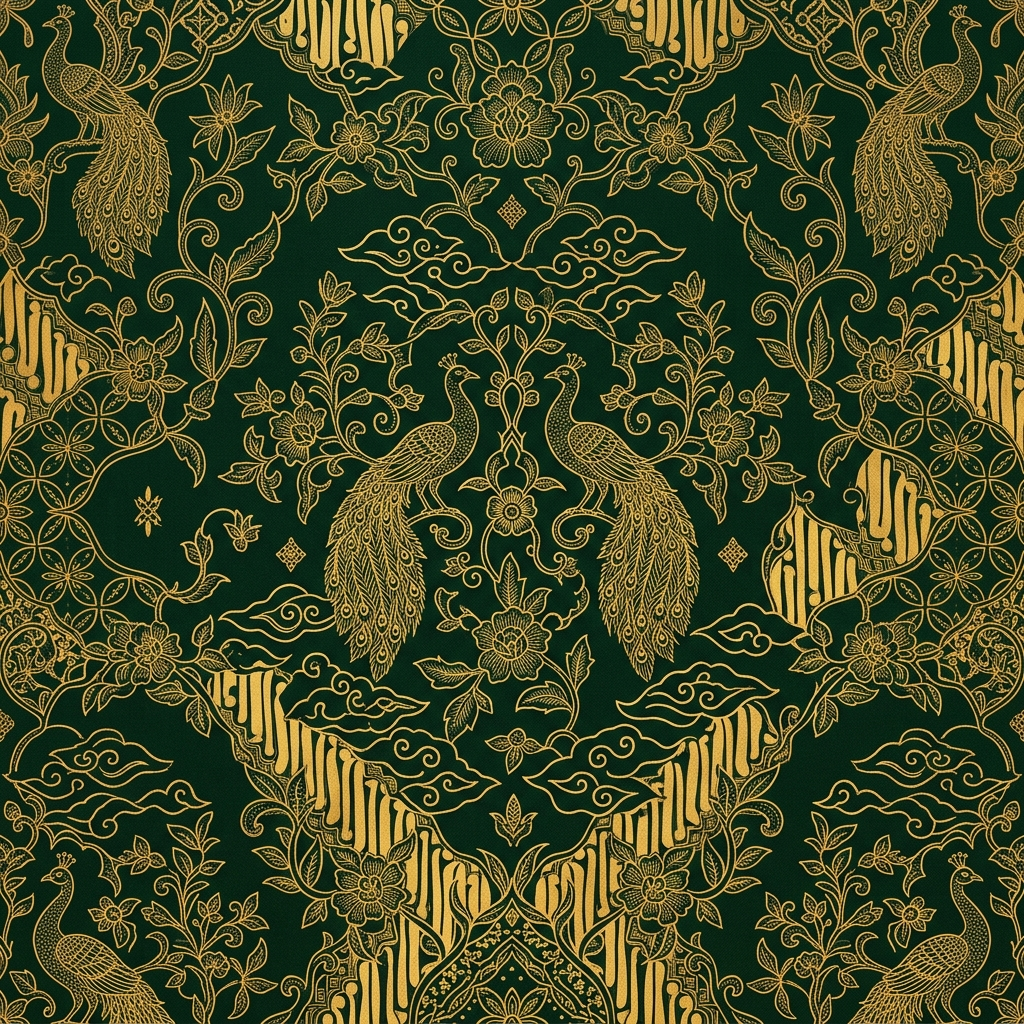
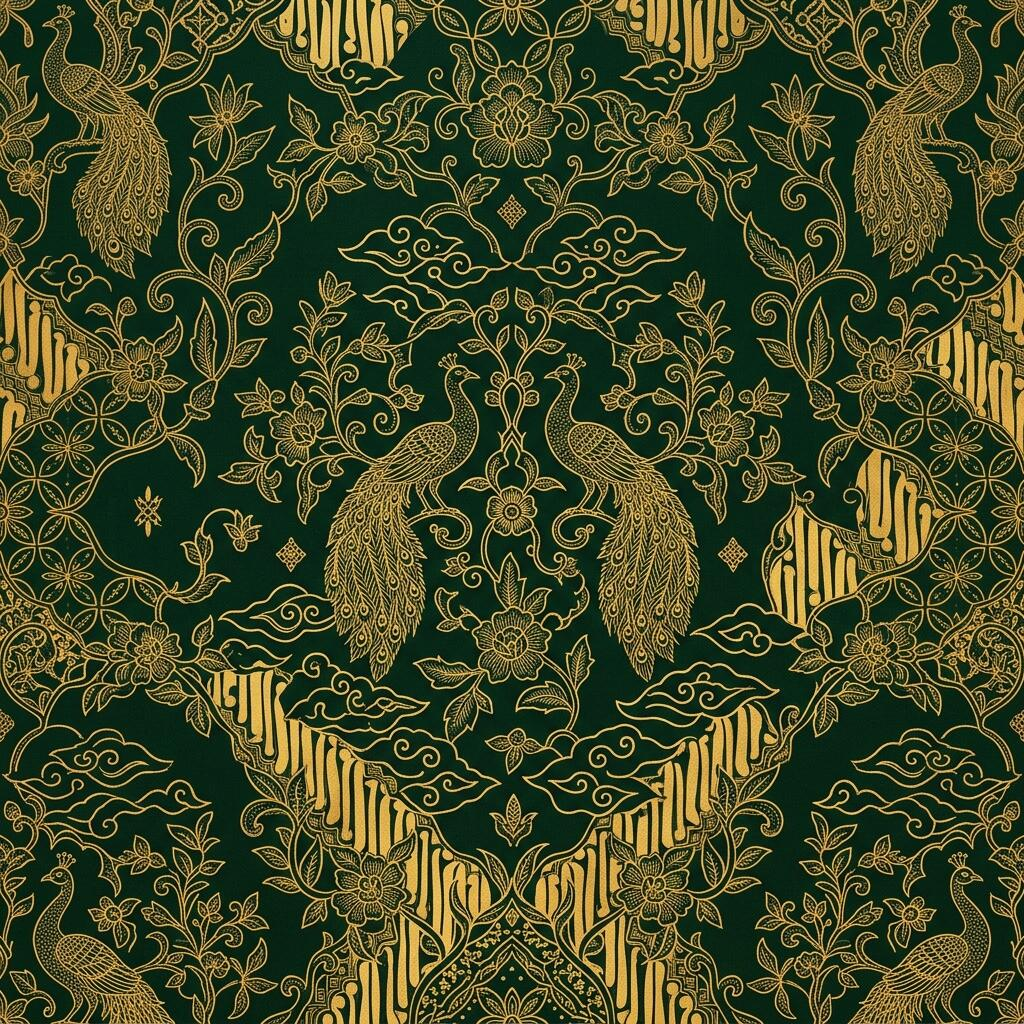
perf: optimize webp background, add main landmark, parallel fonts, and complete SEO meta

diff --git a/src/components/ProductionLanding.jsx b/src/components/ProductionLanding.jsx
@@ -1,15 +1,24 @@
 import React, { useEffect } from 'react';
 import { Sparkles, MessageCircle, ShieldCheck, HeartHandshake, Music } from 'lucide-react';
-import { setRobotsNoIndex } from '../utils/seo';
 
 const ProductionLanding = () => {
-  useEffect(() => {
-    // Pastikan halaman landing produksi tidak diindeks mesin pencari
-    setRobotsNoIndex();
-    document.title = 'Undangan Pernikahan Tradisional Digital';
-  }, []);
+  const brandName = import.meta.env?.VITE_BRAND_NAME || 'Kalyana Undangan Adat';
+  const whatsappNumber = import.meta.env?.VITE_WHATSAPP_NUMBER || '6281234567890';
+  const brandDesc = 'Platform undangan pernikahan digital bernuansa adat tradisional Nusantara yang sakral, elegan, dan berkelas bagi hari bahagia Anda.';
 
-  const whatsappUrl = 'https://wa.me/6281234567890?text=Halo%2C%20saya%20ingin%20berkonsultasi%20mengenai%20pembuatan%20undangan%20pernikahan%20digital%20adat.';
+  useEffect(() => {
+    document.title = `${brandName} - Layanan Undangan Pernikahan Adat Digital`;
+
+    let metaDesc = document.querySelector('meta[name="description"]');
+    if (!metaDesc) {
+      metaDesc = document.createElement('meta');
+      metaDesc.setAttribute('name', 'description');
+      document.head.appendChild(metaDesc);
+    }
+    metaDesc.setAttribute('content', brandDesc);
+  }, [brandName, brandDesc]);
+
+  const whatsappUrl = `https://wa.me/${whatsappNumber}?text=${encodeURIComponent('Halo, saya ingin berkonsultasi mengenai pembuatan undangan pernikahan digital adat.')}`;
 
   return (
     <div style={{
@@ -22,24 +31,36 @@ const ProductionLanding = () => {
       position: 'relative',
       overflow: 'hidden'
     }}>
-      {/* Background Ornaments */}
-      <img 
-        src="/assets/sunda_bg.jpg" 
-        alt="Ornamen Latar" 
-        style={{
-          position: 'absolute',
-          top: 0,
-          left: 0,
-          width: '100%',
-          height: '100%',
-          objectFit: 'cover',
-          opacity: 0.1,
-          pointerEvents: 'none'
-        }} 
-      />
+      {/* Background Ornaments (Optimized WebP with JPG fallback) */}
+      <picture style={{
+        position: 'absolute',
+        top: 0,
+        left: 0,
+        width: '100%',
+        height: '100%',
+        pointerEvents: 'none'
+      }}>
+        <source srcSet="/assets/sunda_bg.webp" type="image/webp" />
+        <img 
+          src="/assets/sunda_bg.jpg" 
+          alt="" 
+          role="presentation"
+          aria-hidden="true"
+          loading="lazy"
+          decoding="async"
+          width="1024"
+          height="1024"
+          style={{
+            width: '100%',
+            height: '100%',
+            objectFit: 'cover',
+            opacity: 0.1
+          }} 
+        />
+      </picture>
 
-      {/* Main Content Area */}
-      <div style={{
+      {/* Main Content Area (Semantic main landmark for 100 Accessibility) */}
+      <main style={{
         maxWidth: '860px',
         margin: '0 auto',
         padding: '4rem 1.5rem',
@@ -177,7 +198,7 @@ const ProductionLanding = () => {
         <p className="font-sans" style={{ fontSize: '0.8rem', opacity: 0.65, marginTop: '1rem' }}>
           Hubungi tim kami untuk pembuatan undangan pernikahan adat Anda
         </p>
-      </div>
+      </main>
 
       {/* Footer */}
       <footer style={{

diff --git a/index.html b/index.html
@@ -8,9 +8,10 @@
     <title>Undangan Pernikahan Adat Digital</title>
     <meta name="description" content="Platform Pembuatan Undangan Pernikahan Adat Tradisional Digital Elegan dan Eksklusif" />
 
-    <!-- Font Preconnect -->
+    <!-- Font Preconnect & Stylesheet -->
     <link rel="preconnect" href="https://fonts.googleapis.com">
     <link rel="preconnect" href="https://fonts.gstatic.com" crossorigin>
+    <link rel="stylesheet" href="https://fonts.googleapis.com/css2?family=Cinzel:wght@400;600;700&family=Cormorant+Garamond:ital,wght@0,400;0,600;1,400;1,600&family=Montserrat:wght@300;400;500;600&family=Playfair+Display:ital,wght@0,500;0,700;1,500&display=swap">
   </head>
   <body>
     <div id="root"></div>

diff --git a/src/index.css b/src/index.css
@@ -1,5 +1,3 @@
-@import url('https://fonts.googleapis.com/css2?family=Cinzel:wght@400;600;700&family=Cormorant+Garamond:ital,wght@0,400;0,600;1,400;1,600&family=Montserrat:wght@300;400;500;600&family=Playfair+Display:ital,wght@0,500;0,700;1,500&display=swap');
-
 /* ==========================================================================
    DESIGN TOKENS & CSS VARIABLES
    ========================================================================== */
